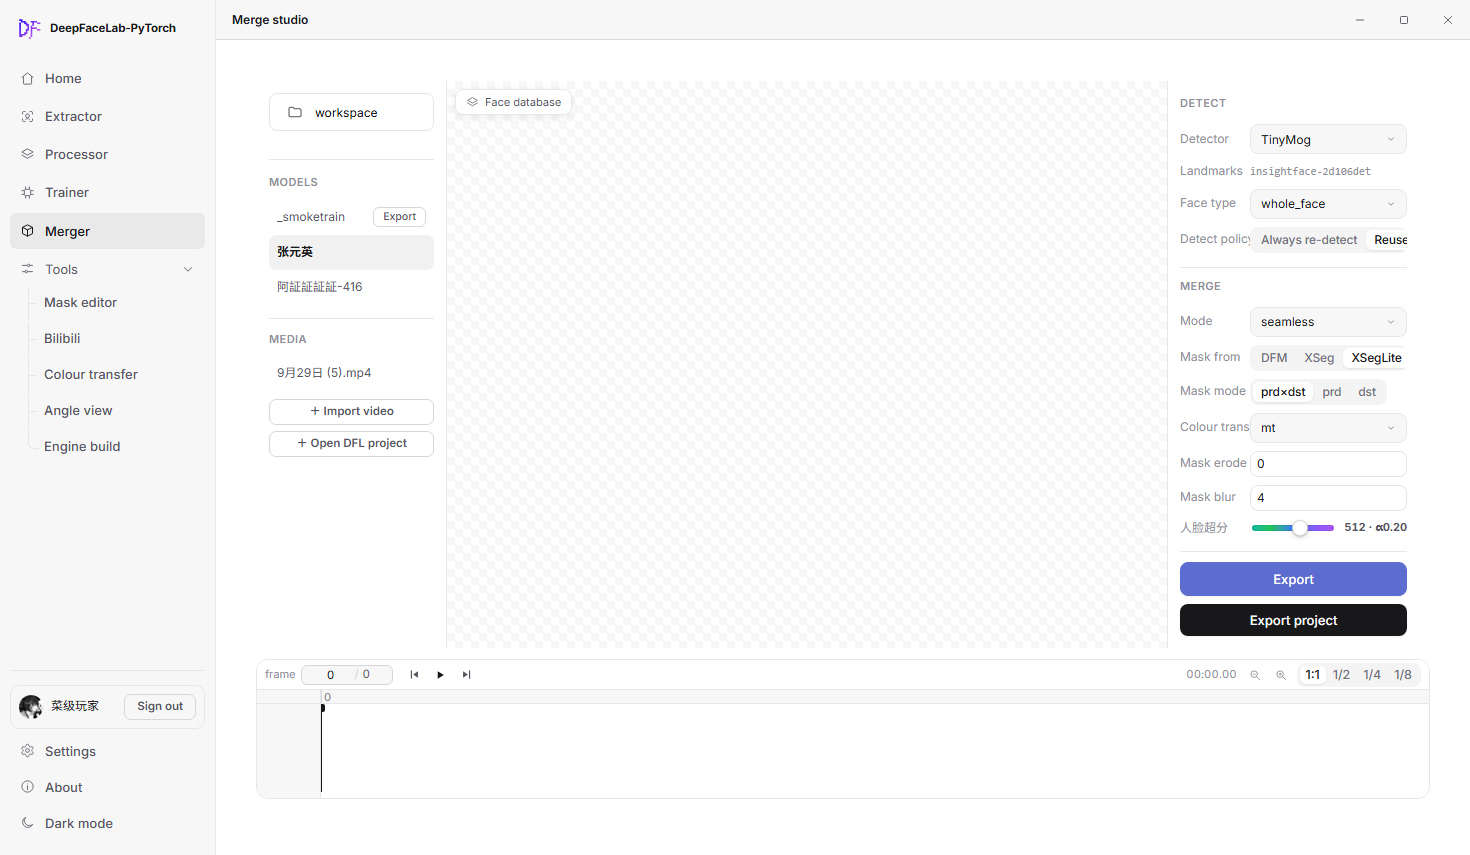
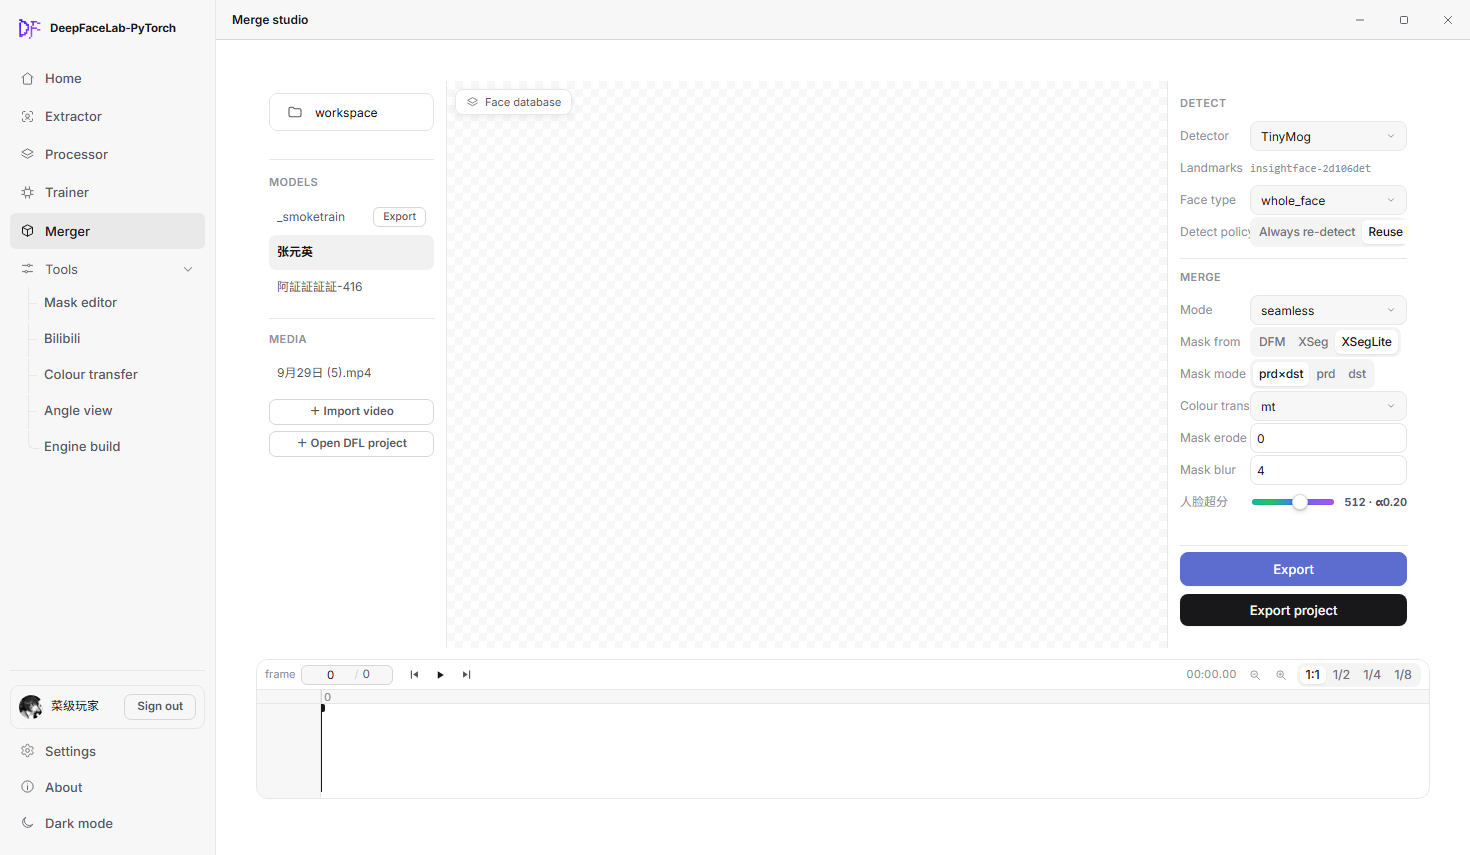
ui(merge): 第一屏右栏控件高度统一到 30px（原来 17/26/30 三种混在一起）
量出来的现状（getBoundingClientRect，panelW=262）：
  .ddbtn 下拉      30px   ← 拿它当基准
  .seg 分段        26px
  .mgnum/.mgtiny   26px（24 + 上下各 1px 边框）
  .mgval 只读文本  17px（纯文字，行高就是字高）
  .mgsrwrap 滑块   17px
一列里四种高度，所以看着参差。

做法：给 #p-merge .mgright 一个 --mg-ctl-h: 30px，四处往它对齐：
  · .mgtiny 高 = 30 - 2（它自己有上下 1px 边框）；.mgnum 直接 30；
  · .seg 30px + box-sizing border-box，内衬 2px，子项 b 撑满高度；
  · .mgval（特征点那行只读文本）与 .mgsrwrap 给 30px 盒子，行距才齐。
结果：11 行全部 30px 控件 / 34px 行高。

连带修掉两个副作用（都是这次改动暴露出来的）：
  ① 检测策略那行英文 Always re-detect / Reuse 被裁掉 12px（seg scrollWidth 169 > width 157）
     → 子项内边距 9px 收到 6px，三个 seg 的 scrollWidth 与 width 现在完全相等；
  ② 控件变高后整列超出可视区 53px，导出按钮只剩半截
     → 行距 4px 收到 1px（行高 38 → 32），并把 .mgexport 设成 position: sticky; bottom: 0；
       现在 clientH == scrollH == 567，两个按钮都完整可见。

顺手确认：README 05-merge 重拍；merge_ui_accept 33/0。

已知未动：英文标签 Detect policy / Face type 在 68px 的标签列里会被截（Detect polic…），
那是标签列宽度问题，跟控件高度无关，要改得重新分配 68px/1fr 的比例，另开一单。

Changed region(s): [[0.7959, 0.152, 0.9796, 0.7602]]

diff --git a/app/web/css/app.css b/app/web/css/app.css
@@ -2085,7 +2085,7 @@ html[data-theme="dark"] #p-merge .mgempty { background: rgba(12, 16, 24, .42); }
 #p-merge .mgleft::-webkit-scrollbar-track,
 #p-merge .mgright::-webkit-scrollbar-track { background: transparent; }
 #p-merge .mgsec { padding: 10px 0; }
-#p-merge .mgrow { padding: 4px 0; }
+#p-merge .mgrow { padding: 1px 0; }
 #p-merge .mggrp { margin-bottom: 0; }
 #p-merge .mgtl { padding: 6px 10px; }
 
@@ -6278,3 +6278,30 @@ body.fdb-dragging, body.fdb-dragging * { cursor: grabbing !important; }
 [data-theme="dark"] #p-merge .mgsr { box-shadow: inset 0 0 0 1px rgba(255, 255, 255, .08); }
 [data-theme="dark"] #p-merge .mgsr::-webkit-slider-thumb { border-color: rgba(255, 255, 255, .22); }
 
+/* ============================================================================
+   合成器第一屏右栏：**控件高度统一到 30px**
+   ----------------------------------------------------------------------------
+   量出来的现状（getBoundingClientRect，panelW=262）：
+     .ddbtn（下拉）      30px   ← 基准
+     .seg（分段）        26px
+     .mgnum/.mgtiny      26px（24 + 上下 1px 边框）
+     .mgval（只读文本）  17px（纯文字，行高就是字高）
+     .mgsrwrap（滑块）   17px
+   一列里四个高度，看着就是"参差不齐"。统一到 30px：数字框 28+2 边框、分段 2px 内衬 + 26 的子块，
+   只读文本和滑块行给盒子高度让行距一致。
+   ============================================================================ */
+#p-merge .mgright { --mg-ctl-h: 30px; }
+/* 导出按钮钉在栏底：控件变高以后，小窗口下它会被滚出可视区（截图里就只剩半截）。
+   sticky 而不是 fixed —— 它仍在滚动容器里，只是粘住底边。 */
+#p-merge .mgright .mgexport {
+  position: sticky;
+  bottom: 0;
+  background: var(--panel);
+  padding-top: 6px;
+}
+#p-merge .mgright .mgnum { height: var(--mg-ctl-h); }
+#p-merge .mgright .mgtiny { height: calc(var(--mg-ctl-h) - 2px); }   /* 上下各 1px 边框 */
+#p-merge .mgright .seg { height: var(--mg-ctl-h); padding: 2px; box-sizing: border-box; }
+#p-merge .mgright .seg b { height: 100%; display: inline-flex; align-items: center; padding: 0 6px; font-size: 11.5px; }
+#p-merge .mgright .mgval { height: var(--mg-ctl-h); display: flex; align-items: center; }
+#p-merge .mgright .mgsrwrap { height: var(--mg-ctl-h); }
